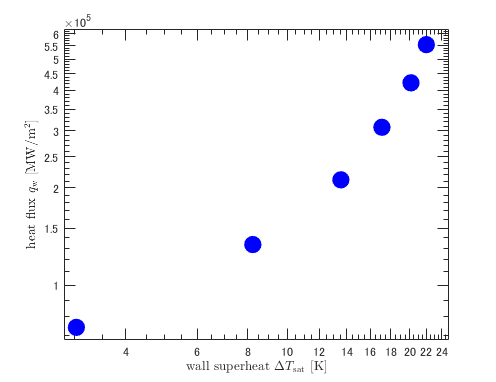
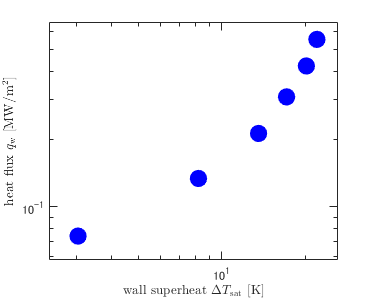
add

diff --git a/ToolboxForSimulator/plot_Task2.m b/ToolboxForSimulator/plot_Task2.m
@@ -19,5 +19,5 @@ loglog(delta_Tsat30(1:2,1),h30(1:2,1),'^', 'LineWidth', 5, 'MarkerSize', 8, 'Col
 legend('Nuclear boiling zone $\Delta T_{\mathrm{sub}}$=0 [K]', 'Nuclear boiling zone $\Delta T_{\mathrm{sub}}$=30 [K]', 'Natural convection region $\Delta T_{\mathrm{sub}}$=0 [K]', 'Natural convection region $\Delta T_{\mathrm{sub}}$=30 [K]', 'Interpreter', 'latex')
 set(gca, 'TickLength', [0.03 0.03], 'XMinorTick', 'on', 'YMinorTick', 'on');
 xlabel('wall superheat $\Delta T_{\mathrm{sat}}$ [K]', 'Interpreter', 'latex');
-ylabel('heat flux $q_{\mathrm{w}}$ [MW/m$^2$]', 'Interpreter', 'latex');
+ylabel('heat transfer coefficient $h$ [MW/m$^2$K]', 'Interpreter', 'latex');
 end
